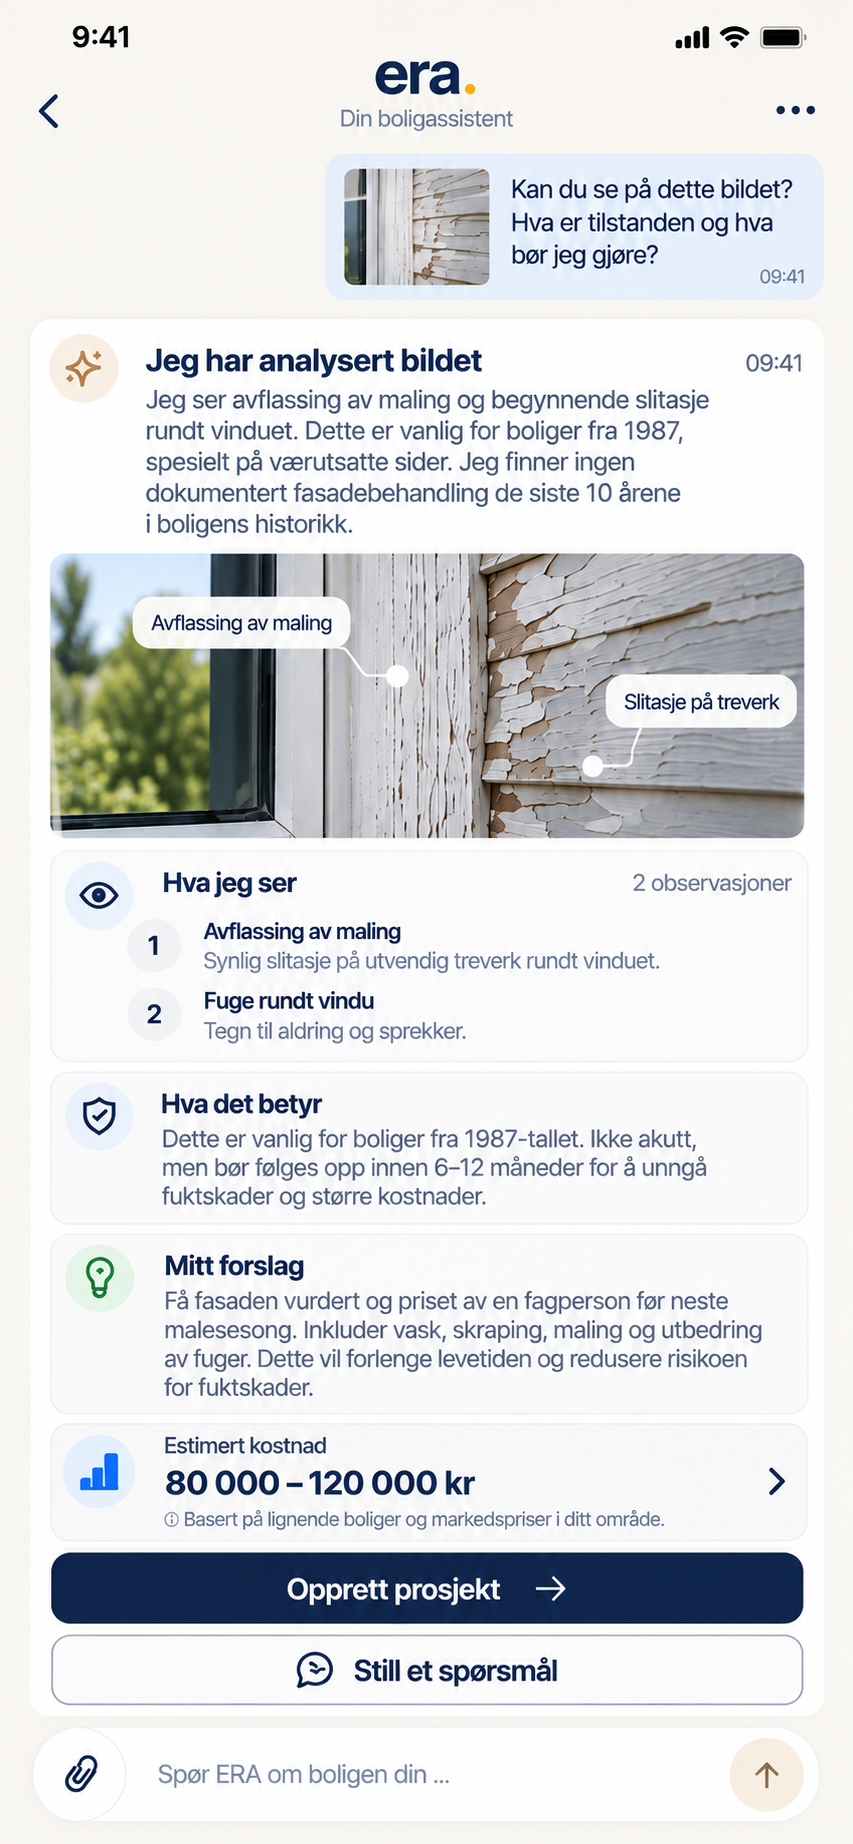
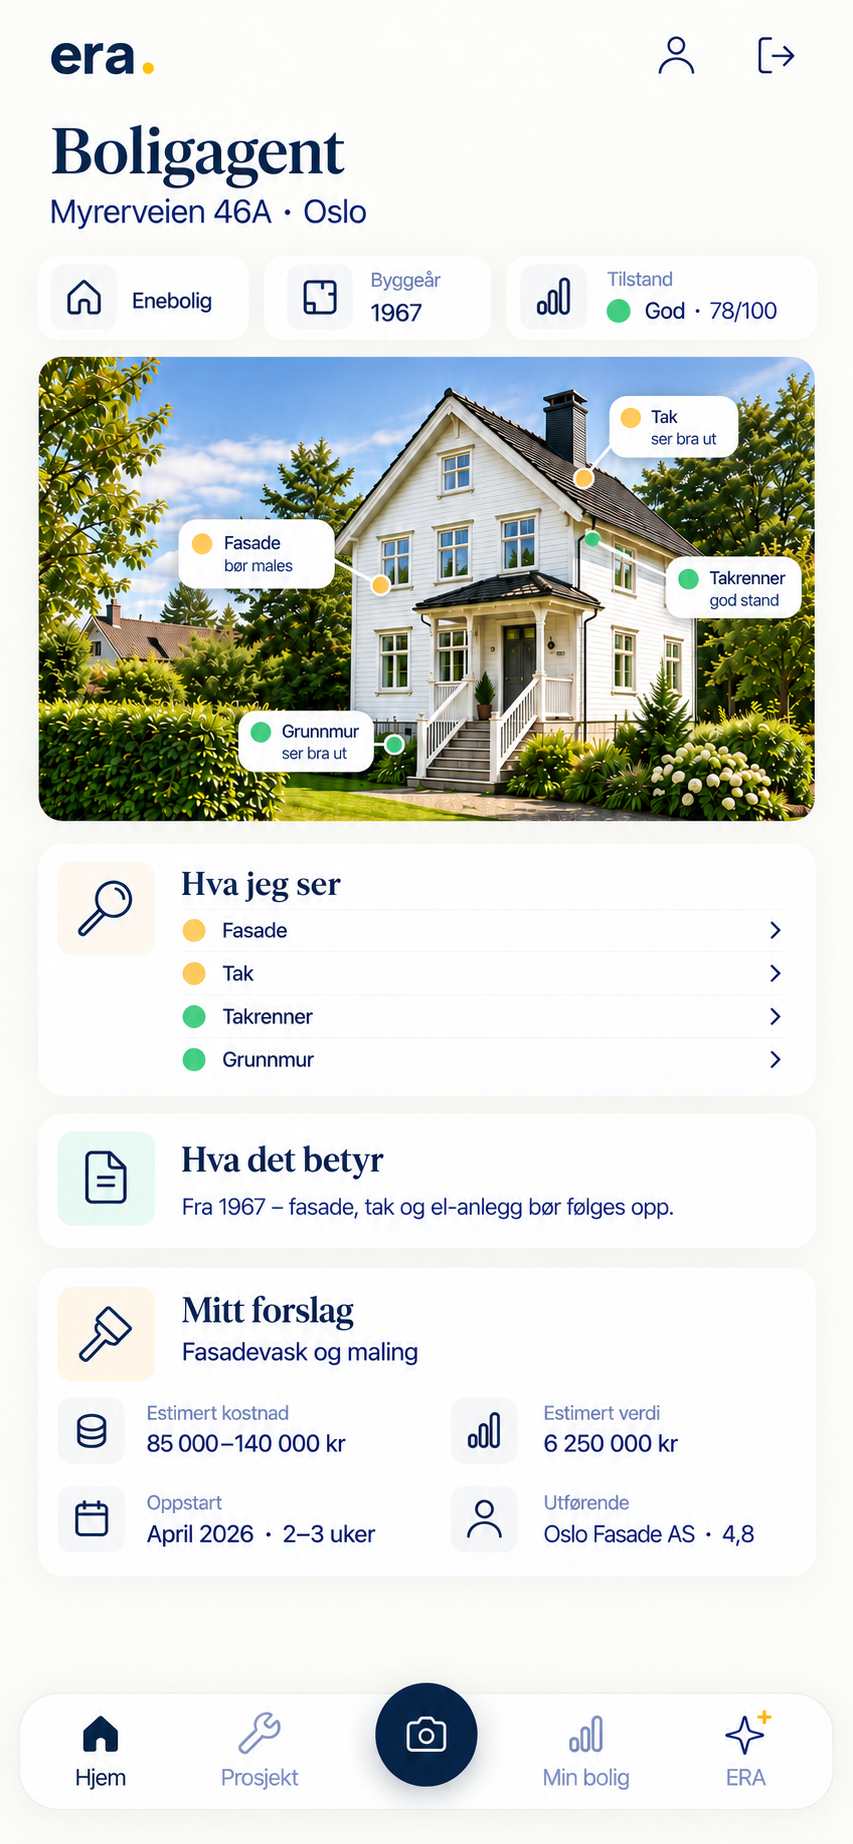
Nye Min bolig- og Boligagent-skjermer i 853x1844
Begge er eksportert med faktaarkets tall: 1967, 85 000-140 000 kr,
6 250 000 kr, Myrerveien 46A. Alle fem skjermene ligger na pa 853x1844,
sa loop-stripen er jevn igjen — Min bolig var 91px kortere enn naboene.

Boligagenten viser na hele huset merket av med fasade og tak til
oppfolging, takrenner og grunnmur i god stand. Punktene under seksjonen
beskrev den gamle naerbildeanalysen av vinduet og er skrevet om til det
skjermen faktisk viser.

Min bolig har fatt et "Neste prosjekt"-kort med kostnad, oppstart og
handverker; alt-teksten folger.

Igjen: Hjem og Prosjekt. Hjem viser fortsatt 1987, 6,8 mill. og
80 000-120 000 kr, Prosjekt viser 80 000-120 000 kr. To av fem skjermer
i loop-stripen motsier dermed fortsatt de tre andre.

diff --git a/boligeier/index.html b/boligeier/index.html
@@ -50,7 +50,7 @@
 </header>
 
 <main>
-  <section class="section appsec alt appsec--flip" id="slik"><div class="wrap"><div class="appsec-text"><div class="label">Min bolig</div><h2>Alt om boligen. Ett sted.</h2><p class="lede">Ikke bare data fra registre. ERA bygger en levende boligprofil som utvikler seg når du legger til rom, dokumentasjon, arbeid og nye opplysninger.</p></div><div class="appsec-visual"><div class="pw-phone pw-phone--lg"><img src="/assets/story/app-minbolig.png" width="941" height="1672" alt="ERA Bolig: Min bolig for Myrerveien 46A – enebolig fra 1967 på 162 m² med tilstand God 78 av 100, vedlikeholdstiltaket «Fasadevask og maling» til 85 000–140 000 kr, estimert verdi 6 250 000 kr og samlet dokumentasjon" loading="lazy" decoding="async"></div></div></div></section><section class="section appsec"><div class="wrap"><div class="appsec-text"><div class="label">Kamera</div><h2>Vis ERA hva du ser.</h2><p class="lede">Ta et bilde av noe du lurer på. ERA analyserer det sammen med informasjonen den allerede har om boligen.</p><p class="fine dark2">Du starter med det du faktisk ser, ikke med et skjema.</p></div><div class="appsec-visual"><div class="pw-phone pw-phone--lg"><img src="/assets/story/app-kamera.png" width="853" height="1844" alt="ERA Bolig: kameraet rettet mot avflassende maling på kledningen ved et vindu, med teksten «Ta et bilde – fokuser på problemet, så analyserer ERA det for deg» og valget «Analyser med ERA»" loading="lazy" decoding="async"><p class="pw-phone-cap">Eksempeldata · Myrerveien 46A</p></div></div></div></section><section class="section appsec alt appsec--flip" id="boligagent"><div class="wrap"><div class="appsec-text"><div class="label">Boligagent</div><h2>Ikke bare et AI-svar. Et svar om boligen din.</h2><p class="lede">ERA kombinerer det du spør om eller viser med tilgjengelig informasjon om boligens alder, historikk, tilstand og tidligere arbeid.</p><ul class="appsec-points"><li><b>Hva jeg ser</b>Avflassing av maling og slitasje rundt vinduet.</li><li><b>Hva det betyr</b>Vanlig for hus fra denne perioden. Ikke akutt, men bør følges opp.</li><li><b>Mitt forslag</b>Få fasaden vurdert av en fagperson og hent inn tilbud.</li></ul></div><div class="appsec-visual"><div class="pw-phone pw-phone--lg"><img src="/assets/story/app-agent.png" width="853" height="1844" alt="ERA Bolig: brukeren spør «Kan du se på dette bildet?», og boligagenten svarer med det annoterte fotoet, to observasjoner, hva funnet betyr, et forslag og estimert kostnad 85 000–140 000 kr" loading="lazy" decoding="async"></div></div></div></section><section class="section appsec"><div class="wrap"><div class="appsec-text"><div class="label">Prosjekt</div><h2>Fra anbefaling til gjennomføring.</h2><p class="lede">Når noe bør gjøres, kan ERA gjøre anbefalingen om til et konkret prosjekt – fra planlegging og tilbud til gjennomføring og dokumentasjon.</p><ul class="appsec-points"><li><b>Planlegging</b>Omfang, oppstart og varighet.</li><li><b>Tilbud</b>Håndverker med vurderinger, klar for forespørsel.</li><li><b>Gjennomføring</b>Fem oppgaver fra stillas til sluttkontroll.</li></ul><p class="fine dark2">Fasadefunnet fra bildet er nå et prosjekt med kostnad, håndverker og oppgaver.</p></div><div class="appsec-visual"><div class="pw-phone pw-phone--lg"><img src="/assets/story/app-prosjekt.png" width="853" height="1844" alt="ERA Bolig: prosjektet «Fasadevask og maling» på Myrerveien 46A med estimert kostnad 85 000–140 000 kr, planlagt oppstart april 2026, fremdrift, håndverker og fem oppgaver" loading="lazy" decoding="async"><p class="pw-phone-cap">Eksempeldata</p></div></div></div></section><section class="section appsec appsec--flip" id="boligminne"><div class="wrap"><div class="appsec-text"><div class="label">Boligminne</div><h2>Alt som gjøres blir en del av boligen.</h2><p class="lede">Arbeid, dokumentasjon og historikk følger boligen videre – slik at du slipper å starte på nytt hver gang noe skal vedlikeholdes, vurderes eller forbedres.</p><ul class="appsec-points"><li><b>Det som er gjort</b>Bad, varmepumpe og tak ligger med år og dokumentasjon.</li><li><b>Det som kommer</b>Fasadeprosjektet fra bildet står som planlagt.</li></ul></div><div class="appsec-visual"><div class="pw-ui"><img src="/assets/story/app-boligminne.png" width="783" height="645" alt="ERA Bolig, boligminnet: tidslinjen 2020 nytt bad, 2022 varmepumpe, 2024 nytt tak og 2026 fasadevask og maling" loading="lazy" decoding="async"><p class="pw-phone-cap">Eksempeldata · Myrerveien 46A</p></div></div></div></section><section class="section alt" id="loopen"><div class="wrap wide"><div class="label">Hele loopen</div><h2>Fra spørsmål til ferdig dokumentert.</h2><div class="apploop"><div class="apploop-shot"><img src="/assets/story/app-hjem.png" width="853" height="1844" alt="ERA Bolig: forsiden for Myrerveien 46A med tilstand og neste tiltak" loading="lazy" decoding="async"></div><div class="apploop-shot"><img src="/assets/story/app-kamera.png" width="853" height="1844" alt="ERA Bolig: kameraet rettet mot avflassende maling ved et vindu" loading="lazy" decoding="async"></div><div class="apploop-shot"><img src="/assets/story/app-agent.png" width="853" height="1844" alt="ERA Bolig: boligagentens analyse av bildet med funn, betydning og forslag" loading="lazy" decoding="async"></div><div class="apploop-shot"><img src="/assets/story/app-prosjekt.png" width="853" height="1844" alt="ERA Bolig: prosjektet «Fasadevask og maling» med kostnad, håndverker og oppgaver" loading="lazy" decoding="async"></div><div class="apploop-shot"><img src="/assets/story/app-minbolig.png" width="941" height="1672" alt="ERA Bolig: Min bolig med nøkkeltall, vedlikeholdstiltak, estimert verdi og dokumentasjon" loading="lazy" decoding="async"></div></div><div class="apploop-steps"><div class="apploop-step"><span class="n">01</span><b>Boligen</b><span>ERA kjenner den.</span></div><div class="apploop-step"><span class="n">02</span><b>Kamera</b><span>Vis ERA problemet.</span></div><div class="apploop-step"><span class="n">03</span><b>Boligagent</b><span>Forstå hva det betyr.</span></div><div class="apploop-step"><span class="n">04</span><b>Prosjekt</b><span>Planlegg og gjennomfør.</span></div><div class="apploop-step"><span class="n">05</span><b>Min bolig</b><span>Dokumenter og husk.</span></div></div><p class="fine dark2">Eksempeldata. Samme bolig, Myrerveien 46A, gjennom hele loopen.</p></div></section>
+  <section class="section appsec alt appsec--flip" id="slik"><div class="wrap"><div class="appsec-text"><div class="label">Min bolig</div><h2>Alt om boligen. Ett sted.</h2><p class="lede">Ikke bare data fra registre. ERA bygger en levende boligprofil som utvikler seg når du legger til rom, dokumentasjon, arbeid og nye opplysninger.</p></div><div class="appsec-visual"><div class="pw-phone pw-phone--lg"><img src="/assets/story/app-minbolig.png" width="853" height="1844" alt="ERA Bolig: Min bolig for Myrerveien 46A – enebolig fra 1967 på 162 m² med tilstand God 78 av 100, neste prosjekt «Fasadevask og maling» til 85 000–140 000 kr med oppstart april 2026 og Oslo Fasade AS, estimert verdi 6 250 000 kr og samlet dokumentasjon" loading="lazy" decoding="async"></div></div></div></section><section class="section appsec"><div class="wrap"><div class="appsec-text"><div class="label">Kamera</div><h2>Vis ERA hva du ser.</h2><p class="lede">Ta et bilde av noe du lurer på. ERA analyserer det sammen med informasjonen den allerede har om boligen.</p><p class="fine dark2">Du starter med det du faktisk ser, ikke med et skjema.</p></div><div class="appsec-visual"><div class="pw-phone pw-phone--lg"><img src="/assets/story/app-kamera.png" width="853" height="1844" alt="ERA Bolig: kameraet rettet mot avflassende maling på kledningen ved et vindu, med teksten «Ta et bilde – fokuser på problemet, så analyserer ERA det for deg» og valget «Analyser med ERA»" loading="lazy" decoding="async"><p class="pw-phone-cap">Eksempeldata · Myrerveien 46A</p></div></div></div></section><section class="section appsec alt appsec--flip" id="boligagent"><div class="wrap"><div class="appsec-text"><div class="label">Boligagent</div><h2>Ikke bare et AI-svar. Et svar om boligen din.</h2><p class="lede">ERA kombinerer det du spør om eller viser med tilgjengelig informasjon om boligens alder, historikk, tilstand og tidligere arbeid.</p><ul class="appsec-points"><li><b>Hva jeg ser</b>Fasade og tak bør følges opp. Takrenner og grunnmur er i god stand.</li><li><b>Hva det betyr</b>Boligen er fra 1967. Det gjør fasade, tak og el-anlegg verdt å se nærmere på.</li><li><b>Mitt forslag</b>«Fasadevask og maling» med kostnad, oppstart og en håndverker som kan gjøre jobben.</li></ul></div><div class="appsec-visual"><div class="pw-phone pw-phone--lg"><img src="/assets/story/app-agent.png" width="853" height="1844" alt="ERA Bolig, boligagenten for Myrerveien 46A: fotoet av huset er merket av med fasade og tak til oppfølging og takrenner og grunnmur i god stand, etterfulgt av «Hva jeg ser» med de fire punktene, «Hva det betyr» for en bolig fra 1967, og forslaget «Fasadevask og maling» med estimert kostnad 85 000–140 000 kr, oppstart april 2026 og Oslo Fasade AS" loading="lazy" decoding="async"></div></div></div></section><section class="section appsec"><div class="wrap"><div class="appsec-text"><div class="label">Prosjekt</div><h2>Fra anbefaling til gjennomføring.</h2><p class="lede">Når noe bør gjøres, kan ERA gjøre anbefalingen om til et konkret prosjekt – fra planlegging og tilbud til gjennomføring og dokumentasjon.</p><ul class="appsec-points"><li><b>Planlegging</b>Omfang, oppstart og varighet.</li><li><b>Tilbud</b>Håndverker med vurderinger, klar for forespørsel.</li><li><b>Gjennomføring</b>Fem oppgaver fra stillas til sluttkontroll.</li></ul><p class="fine dark2">Fasadefunnet fra bildet er nå et prosjekt med kostnad, håndverker og oppgaver.</p></div><div class="appsec-visual"><div class="pw-phone pw-phone--lg"><img src="/assets/story/app-prosjekt.png" width="853" height="1844" alt="ERA Bolig: prosjektet «Fasadevask og maling» på Myrerveien 46A med estimert kostnad 85 000–140 000 kr, planlagt oppstart april 2026, fremdrift, håndverker og fem oppgaver" loading="lazy" decoding="async"><p class="pw-phone-cap">Eksempeldata</p></div></div></div></section><section class="section appsec appsec--flip" id="boligminne"><div class="wrap"><div class="appsec-text"><div class="label">Boligminne</div><h2>Alt som gjøres blir en del av boligen.</h2><p class="lede">Arbeid, dokumentasjon og historikk følger boligen videre – slik at du slipper å starte på nytt hver gang noe skal vedlikeholdes, vurderes eller forbedres.</p><ul class="appsec-points"><li><b>Det som er gjort</b>Bad, varmepumpe og tak ligger med år og dokumentasjon.</li><li><b>Det som kommer</b>Fasadeprosjektet fra bildet står som planlagt.</li></ul></div><div class="appsec-visual"><div class="pw-ui"><img src="/assets/story/app-boligminne.png" width="783" height="645" alt="ERA Bolig, boligminnet: tidslinjen 2020 nytt bad, 2022 varmepumpe, 2024 nytt tak og 2026 fasadevask og maling" loading="lazy" decoding="async"><p class="pw-phone-cap">Eksempeldata · Myrerveien 46A</p></div></div></div></section><section class="section alt" id="loopen"><div class="wrap wide"><div class="label">Hele loopen</div><h2>Fra spørsmål til ferdig dokumentert.</h2><div class="apploop"><div class="apploop-shot"><img src="/assets/story/app-hjem.png" width="853" height="1844" alt="ERA Bolig: forsiden for Myrerveien 46A med tilstand og neste tiltak" loading="lazy" decoding="async"></div><div class="apploop-shot"><img src="/assets/story/app-kamera.png" width="853" height="1844" alt="ERA Bolig: kameraet rettet mot avflassende maling ved et vindu" loading="lazy" decoding="async"></div><div class="apploop-shot"><img src="/assets/story/app-agent.png" width="853" height="1844" alt="ERA Bolig: boligagentens analyse av huset med funn, betydning og forslag" loading="lazy" decoding="async"></div><div class="apploop-shot"><img src="/assets/story/app-prosjekt.png" width="853" height="1844" alt="ERA Bolig: prosjektet «Fasadevask og maling» med kostnad, håndverker og oppgaver" loading="lazy" decoding="async"></div><div class="apploop-shot"><img src="/assets/story/app-minbolig.png" width="853" height="1844" alt="ERA Bolig: Min bolig med nøkkeltall, neste prosjekt, estimert verdi og dokumentasjon" loading="lazy" decoding="async"></div></div><div class="apploop-steps"><div class="apploop-step"><span class="n">01</span><b>Boligen</b><span>ERA kjenner den.</span></div><div class="apploop-step"><span class="n">02</span><b>Kamera</b><span>Vis ERA problemet.</span></div><div class="apploop-step"><span class="n">03</span><b>Boligagent</b><span>Forstå hva det betyr.</span></div><div class="apploop-step"><span class="n">04</span><b>Prosjekt</b><span>Planlegg og gjennomfør.</span></div><div class="apploop-step"><span class="n">05</span><b>Min bolig</b><span>Dokumenter og husk.</span></div></div><p class="fine dark2">Eksempeldata. Samme bolig, Myrerveien 46A, gjennom hele loopen.</p></div></section>
 
   
 

diff --git a/tools/build-pages.py b/tools/build-pages.py
@@ -158,10 +158,11 @@ AUDIENCES = {
             app_section(
                 "Min bolig", "Alt om boligen. Ett sted.",
                 "Ikke bare data fra registre. ERA bygger en levende boligprofil som utvikler seg når du legger til rom, dokumentasjon, arbeid og nye opplysninger.",
-                phone("/assets/story/app-minbolig.png", 941, 1672,
+                phone("/assets/story/app-minbolig.png", 853, 1844,
                       f"ERA Bolig: Min bolig for {DEMO_HOME['address']} – {DEMO_HOME['type']} fra {DEMO_HOME['year']} på "
-                      f"{DEMO_HOME['area']} med tilstand {DEMO_HOME['condition']} {DEMO_HOME['score']}, vedlikeholdstiltaket "
-                      f"«{DEMO_HOME['measure']}» til {DEMO_HOME['cost']}, estimert verdi {DEMO_HOME['value']} og samlet dokumentasjon",
+                      f"{DEMO_HOME['area']} med tilstand {DEMO_HOME['condition']} {DEMO_HOME['score']}, neste prosjekt "
+                      f"«{DEMO_HOME['measure']}» til {DEMO_HOME['cost']} med oppstart {DEMO_HOME['start']} og "
+                      f"{DEMO_HOME['pro']}, estimert verdi {DEMO_HOME['value']} og samlet dokumentasjon",
                       "lg"),
                 alt_bg=True, flip=True, sid="slik"),
             app_section(
@@ -175,12 +176,14 @@ AUDIENCES = {
                 "Boligagent", "Ikke bare et AI-svar. Et svar om boligen din.",
                 "ERA kombinerer det du spør om eller viser med tilgjengelig informasjon om boligens alder, historikk, tilstand og tidligere arbeid.",
                 phone("/assets/story/app-agent.png", 853, 1844,
-                      "ERA Bolig: brukeren spør «Kan du se på dette bildet?», og boligagenten svarer med det annoterte "
-                      f"fotoet, to observasjoner, hva funnet betyr, et forslag og estimert kostnad {DEMO_HOME['cost']}",
+                      f"ERA Bolig, boligagenten for {DEMO_HOME['address']}: fotoet av huset er merket av med fasade og tak "
+                      "til oppfølging og takrenner og grunnmur i god stand, etterfulgt av «Hva jeg ser» med de fire "
+                      f"punktene, «Hva det betyr» for en bolig fra {DEMO_HOME['year']}, og forslaget «{DEMO_HOME['measure']}» "
+                      f"med estimert kostnad {DEMO_HOME['cost']}, oppstart {DEMO_HOME['start']} og {DEMO_HOME['pro']}",
                       "lg"),
-                points=[("Hva jeg ser", "Avflassing av maling og slitasje rundt vinduet."),
-                        ("Hva det betyr", "Vanlig for hus fra denne perioden. Ikke akutt, men bør følges opp."),
-                        ("Mitt forslag", "Få fasaden vurdert av en fagperson og hent inn tilbud.")],
+                points=[("Hva jeg ser", "Fasade og tak bør følges opp. Takrenner og grunnmur er i god stand."),
+                        ("Hva det betyr", f"Boligen er fra {DEMO_HOME['year']}. Det gjør fasade, tak og el-anlegg verdt å se nærmere på."),
+                        ("Mitt forslag", f"«{DEMO_HOME['measure']}» med kostnad, oppstart og en håndverker som kan gjøre jobben.")],
                 alt_bg=True, flip=True, sid="boligagent"),
             app_section(
                 "Prosjekt", "Fra anbefaling til gjennomføring.",
@@ -209,11 +212,11 @@ AUDIENCES = {
                  ("Kamera", "Vis ERA problemet.", "/assets/story/app-kamera.png",
                   "ERA Bolig: kameraet rettet mot avflassende maling ved et vindu", 853, 1844),
                  ("Boligagent", "Forstå hva det betyr.", "/assets/story/app-agent.png",
-                  "ERA Bolig: boligagentens analyse av bildet med funn, betydning og forslag", 853, 1844),
+                  "ERA Bolig: boligagentens analyse av huset med funn, betydning og forslag", 853, 1844),
                  ("Prosjekt", "Planlegg og gjennomfør.", "/assets/story/app-prosjekt.png",
                   "ERA Bolig: prosjektet «Fasadevask og maling» med kostnad, håndverker og oppgaver", 853, 1844),
                  ("Min bolig", "Dokumenter og husk.", "/assets/story/app-minbolig.png",
-                  "ERA Bolig: Min bolig med nøkkeltall, vedlikeholdstiltak, estimert verdi og dokumentasjon", 941, 1672)],
+                  "ERA Bolig: Min bolig med nøkkeltall, neste prosjekt, estimert verdi og dokumentasjon", 853, 1844)],
                 "Eksempeldata. Samme bolig, Myrerveien 46A, gjennom hele loopen."),
         ],
         gains=[
